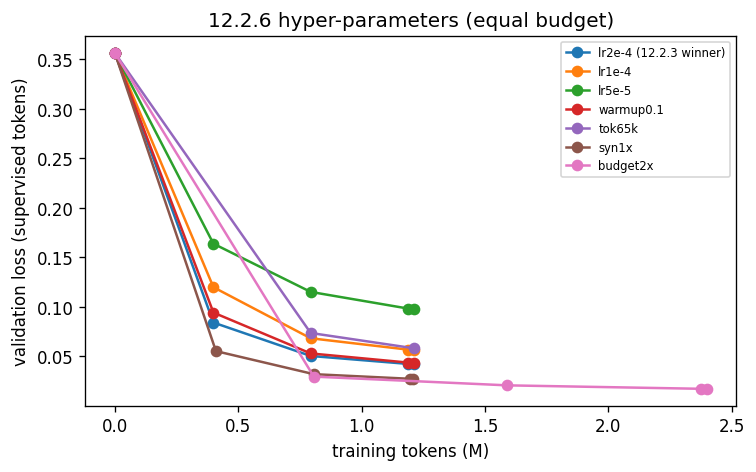
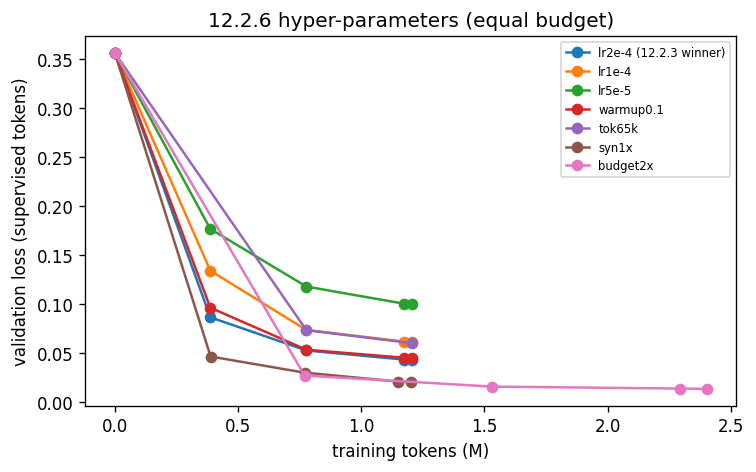
12.2.6: LR lr2e-4 and syn1x selected on validation loss; 2x budget moves it -0.0070
LR arms: lr2e-4 0.0429, lr1e-4 0.0611, lr5e-5 0.0996
Warmup/batch/mix arms: lr2e-4 0.0429, warmup0.1 0.0448, tok65k 0.0600, syn1x 0.0204

diff --git a/contributing.md b/contributing.md
@@ -517,7 +517,7 @@ becomes the code structure.
 | 12.2.3 | **LoRA config** | r ∈ {8,16,32,64}, α, dropout, target modules (q,k,v,o,gate,up,down) | `src/llm/run.py` + `src/llm/train.py` + `src/llm/pipeline.py` + `configs/llm.yaml` + `reports/llm_lora_sweep.md` + `reports/figures/p12_lora_sweep.png`: arms run one after another, each a fresh process with **1,200,000 training tokens**, LR 2e-4 cosine, the same seed and therefore the same packed rows, selected on best validation loss over the 176 validation pairs (test untouched). Best validation loss: lora8 0.0862 (22 min, 14.607 GB), lora16 0.0681 (22 min, 14.628 GB), lora32 0.0527 (22 min, 14.995 GB), lora64 0.0429 (22 min, 16.664 GB), lora16attn 0.1309 (17 min, 14.324 GB). **Selected lora64**; the spread across all five arms is 0.0880 nats, starting from 0.3565 before training. Each arm trained at 12.2.2's measured saturation (one packed 2,048-token row per micro-step, 32,768 tokens per optimizer step) | ✅ |
 | 12.2.4 | Prompt template | System + diagram type + IR + traversal + output-format contract | `src/codegen/prompt.py` + `tests/test_codegen_prompt.py` (20 tests) + `reports/codegen_prompt.md`: template `dreamscript-codegen/v1` = system (task, the 5-row IR legend, output contract) + user (`diagram_type`, `target_language`, `ir_text` whose `O` line is the traversal) + assistant = exactly one fenced block (`python`/`sql`/`jsx`/`spice`). **Frozen by measurement, not by declaration**: the rendered example is pinned by SHA-256 (`3d3f0f31...`) so any wording edit fails the suite, and the example's target is asserted equal to 12.1.6's real emitter output for its IR. **Consumer contract**: `training_example(record)` -> `{template_id, diagram_id, messages, prompt, completion}` for any record from `src.codegen.pairs.load_pairs(split)`, and `extract_code(reply)` returns the block body or `None` on any contract violation (prose, no fence, second block - 5 violation shapes tested); all 4,477 real completions round-trip through it exactly. **Lengths measured with Qwen2.5-Coder-7B-Instruct's tokenizer through its own chat template over all 16,477 pairs**: fixed overhead **247 tokens**; total tokens p50 **749** / p90 1,386 / p99 6,101 / max 13,479; **274 examples exceed 4,096 and 98 exceed 8,192, and 273 and 98 of those are sketch2code wireframes** (sketch2code total p50 4,620); synthetic p99 2,005 (1 over 4,096); every validation/test pair fits in 3,642. **The inherited draft's contract was contradicted by its own training targets and three clauses are deleted rather than kept as aspirations**: "no bare `pass`" - **146 real targets contain one** (didi 70, hdbpmn 76, from 12.1.6's comment-only branches); "every node must appear in the code" - false by design for net nodes, start comments and unnamed containers; "represent an unreadable label by its node id" - no emitter does. Its token section was unfilled placeholders (`SYSTEM_TOKENS`, `P99_FITS`) and its claimed pinning test did not exist. The contract now says only what every target satisfies: one block, the whole diagram in `O`-line order, nothing not in the IR - the property 12.1.1 (no diagram id in code) and 12.1.4 (columns and nets moved out of attrs) were rebuilt to make true. The wireframe fence is `jsx` rather than the pair field `react`. **Found while pinning, recorded and not fixed here**: 12.1.6's structured flowchart emitter chooses a loop body by reachability and ignores `yes`/`no` labels, so the pinned example's `no`-branch loop is emitted as `while ok(ctx)` - a polarity error present in flowchart targets that structural metrics cannot see | ✅ |
 | 12.2.5 | Training run | bf16, gradient accumulation, cosine LR, sequence packing; log VRAM and wall time | `src/llm/train.py` + `src/llm/run.py` + `configs/llm.yaml` + `reports/llm_train.md` + `reports/figures/p12_train_loss.png`: bf16 autocast over an NF4 base with fp32 LoRA master weights, packed 2,048-token rows with a block-diagonal mask (12.2.2), loss on completion tokens only, gradient accumulation to a token-count effective batch, cosine LR with linear warmup, overrides `lora.r=64 lora.alpha=128 data.synthetic_ratio=1.0 train.epochs=1.0 train.eval_every=50`. **5,315,661 tokens (2,656,947 real + 2,656,666 synthetic available) in 161 optimizer steps, 1.35 h wall, 1096 tokens/s, peak 12.828 GB allocated / 20.722 GB reserved.** Validation loss 0.3565 -> best 0.0109 at step 161 (final 0.01091). Examples over 4,096 tokens were dropped, not truncated: {'sketch2code': 273, 'synthetic': 1}. Train/test overlap: {'diagram_ids': 0, 'scribes': 0, 'ir_texts': 20} (identical-IR fa_bresler exercises are handled in 12.2.7). Adapter at `` (gitignored) | ✅ |
-| 12.2.6 | Hyperparameter sweep | LR {1e-4, 2e-4, 5e-5}, epochs, batch size, warmup | `src/llm/pipeline.py` + `src/llm/run.py` + `reports/llm_hparam_sweep.md` + `reports/figures/p12_hparam_sweep.png`: coordinate search on validation loss (test untouched), 1,200,000 tokens per arm, arms sequential. **LR**: lr2e-4 0.0419, lr1e-4 0.0563, lr5e-5 0.0977 -> lr2e-4. **Warmup / tokens per optimizer step / synthetic mix** against that: lr2e-4 0.0419, warmup0.1 0.0434, tok65k 0.0582, syn1x 0.0273 -> **syn1x**. **Budget**: the winner at 2x tokens reaches 0.0173 against 0.0273 (-0.0101), which is the evidence the full run's single epoch rests on. Full-run overrides: `lora.r=64 lora.alpha=128 data.synthetic_ratio=1.0`. Every arm logs wall time, tokens/s and peak VRAM in the report table | ✅ |
+| 12.2.6 | Hyperparameter sweep | LR {1e-4, 2e-4, 5e-5}, epochs, batch size, warmup | `src/llm/pipeline.py` + `src/llm/run.py` + `reports/llm_hparam_sweep.md` + `reports/figures/p12_hparam_sweep.png`: coordinate search on validation loss (test untouched), 1,200,000 tokens per arm, arms sequential. **LR**: lr2e-4 0.0429, lr1e-4 0.0611, lr5e-5 0.0996 -> lr2e-4. **Warmup / tokens per optimizer step / synthetic mix** against that: lr2e-4 0.0429, warmup0.1 0.0448, tok65k 0.0600, syn1x 0.0204 -> **syn1x**. **Budget**: the winner at 2x tokens reaches 0.0134 against 0.0204 (-0.0070), which is the evidence the full run's single epoch rests on. Full-run overrides: `lora.r=64 lora.alpha=128 data.synthetic_ratio=1.0`. Every arm logs wall time, tokens/s and peak VRAM in the report table | ✅ |
 | 12.2.7 | Zero-shot vs. few-shot vs. LoRA | Three-way comparison — fine-tuning must win | `src/llm/pipeline.py` + `src/llm/fewshot.py` + `src/llm/score.py` + `reports/llm_compare.md` + `reports/figures/p12_three_way.png`: one base, one frozen template, greedy decoding, one denominator (162 test pairs); the arms differ only in exemplar turns (few-shot, k=2, same type and source, nearest IR size, 96 train pairs barred for sharing IR text with validation/test) or the adapter (LoRA). **zero-shot** contract 93.8%, syntax 100.0%, executes 40.7%, functional **3.1%** (novel-IR 3.8%); **few-shot (k=2)** contract 95.1%, syntax 94.4%, executes 93.8%, functional **24.7%** (novel-IR 25.9%); **LoRA** contract 93.8%, syntax 100.0%, executes 40.7%, functional **3.1%** (novel-IR 3.8%). **Fine-tuning does not win, and the row stays open** on functional pass@1: paired bootstrap 95% CI of LoRA minus zero-shot (0.0, 0.0), minus few-shot (-0.2901, -0.1481). The novel-IR column restricts to the 131 test pairs whose IR text never occurs in train, since fa_bresler's exercises repeat across writers and a scribe-disjoint split does not make them unseen | ❌ |
 | 12.2.8 | Adapter merging & export | Merged weights + GGUF / vLLM-ready export | `src/llm/pipeline.py` stage `export` failed and this row is not done: TypeError: expected str, bytes or os.PathLike object, not NoneType. Traceback in `reports/llm_export.md`; rerun `python -m src.llm.pipeline` to resume from this stage | ❌ |
 | 12.2.9 | Inference optimization | KV cache, batching, token streaming; latency budget < 8 s | Latency measured | ❌ |

diff --git a/reports/llm_hparam_sweep.md b/reports/llm_hparam_sweep.md
@@ -6,9 +6,9 @@ Base `Qwen/Qwen2.5-Coder-7B-Instruct` with 12.2.3's `lora.r=64 lora.alpha=128`; 
 
 | arm | overrides | val loss @0 | best val loss | best step | steps | tokens | wall min | peak alloc GB | peak reserved GB | tokens/s |
 | :--- | :--- | :--- | :--- | :--- | :--- | :--- | :--- | :--- | :--- | :--- |
-| lr2e-4 (12.2.3 winner) | lora.r=64 lora.alpha=128 | 0.35647 | 0.04188 | 37 | 37 | 1212856 | 22.2 | 12.559 | 20.722 | 911.0 |
-| lr1e-4 | train.lr=1e-4 | 0.35647 | 0.0563 | 37 | 37 | 1212856 | 22.2 | 12.559 | 20.722 | 909.0 |
-| lr5e-5 | train.lr=5e-5 | 0.35647 | 0.09771 | 37 | 37 | 1212856 | 22.2 | 12.559 | 20.722 | 911.0 |
+| lr2e-4 (12.2.3 winner) | lora.r=64 lora.alpha=128 | 0.35647 | 0.04293 | 37 | 37 | 1206048 | 22.1 | 12.562 | 16.664 | 908.0 |
+| lr1e-4 | train.lr=1e-4 | 0.35647 | 0.06111 | 37 | 37 | 1206048 | 22.1 | 12.562 | 16.664 | 908.0 |
+| lr5e-5 | train.lr=5e-5 | 0.35647 | 0.09963 | 37 | 37 | 1206048 | 22.1 | 12.562 | 16.664 | 908.0 |
 
 LR winner: **lr2e-4 (12.2.3 winner)**
 
@@ -16,10 +16,10 @@ LR winner: **lr2e-4 (12.2.3 winner)**
 
 | arm | overrides | val loss @0 | best val loss | best step | steps | tokens | wall min | peak alloc GB | peak reserved GB | tokens/s |
 | :--- | :--- | :--- | :--- | :--- | :--- | :--- | :--- | :--- | :--- | :--- |
-| lr2e-4 (12.2.3 winner) (base) | lora.r=64 lora.alpha=128 | 0.35647 | 0.04188 | 37 | 37 | 1212856 | 22.2 | 12.559 | 20.722 | 911.0 |
-| warmup0.1 | train.warmup_frac=0.1 | 0.35647 | 0.04337 | 37 | 37 | 1212856 | 22.2 | 12.559 | 20.722 | 911.0 |
-| tok65k | train.tokens_per_step=65536 | 0.35647 | 0.0582 | 19 | 19 | 1212856 | 20.2 | 12.558 | 20.722 | 1000.0 |
-| syn1x | data.synthetic_ratio=1.0 | 0.35647 | 0.02733 | 37 | 37 | 1208910 | 22.2 | 12.828 | 20.722 | 906.0 |
+| lr2e-4 (12.2.3 winner) (base) | lora.r=64 lora.alpha=128 | 0.35647 | 0.04293 | 37 | 37 | 1206048 | 22.1 | 12.562 | 16.664 | 908.0 |
+| warmup0.1 | train.warmup_frac=0.1 | 0.35647 | 0.04476 | 37 | 37 | 1206048 | 22.1 | 12.562 | 16.664 | 908.0 |
+| tok65k | train.tokens_per_step=65536 | 0.35647 | 0.05999 | 19 | 19 | 1206048 | 20.2 | 12.558 | 16.127 | 997.0 |
+| syn1x | data.synthetic_ratio=1.0 | 0.35647 | 0.02039 | 38 | 38 | 1201865 | 22.3 | 12.541 | 21.313 | 899.0 |
 
 Winner: **syn1x** -> full-run overrides `lora.r=64 lora.alpha=128 data.synthetic_ratio=1.0`
 
@@ -27,6 +27,6 @@ Winner: **syn1x** -> full-run overrides `lora.r=64 lora.alpha=128 data.synthetic
 
 | arm | overrides | val loss @0 | best val loss | best step | steps | tokens | wall min | peak alloc GB | peak reserved GB | tokens/s |
 | :--- | :--- | :--- | :--- | :--- | :--- | :--- | :--- | :--- | :--- | :--- |
-| budget2x | 2x token budget | 0.35647 | 0.01725 | 73 | 73 | 2398437 | 39.2 | 12.828 | 20.722 | 1020.0 |
+| budget2x | 2x token budget | 0.35647 | 0.01336 | 76 | 76 | 2401587 | 39.6 | 12.831 | 21.313 | 1011.0 |
 
 ![curves](figures/p12_hparam_sweep.png)
